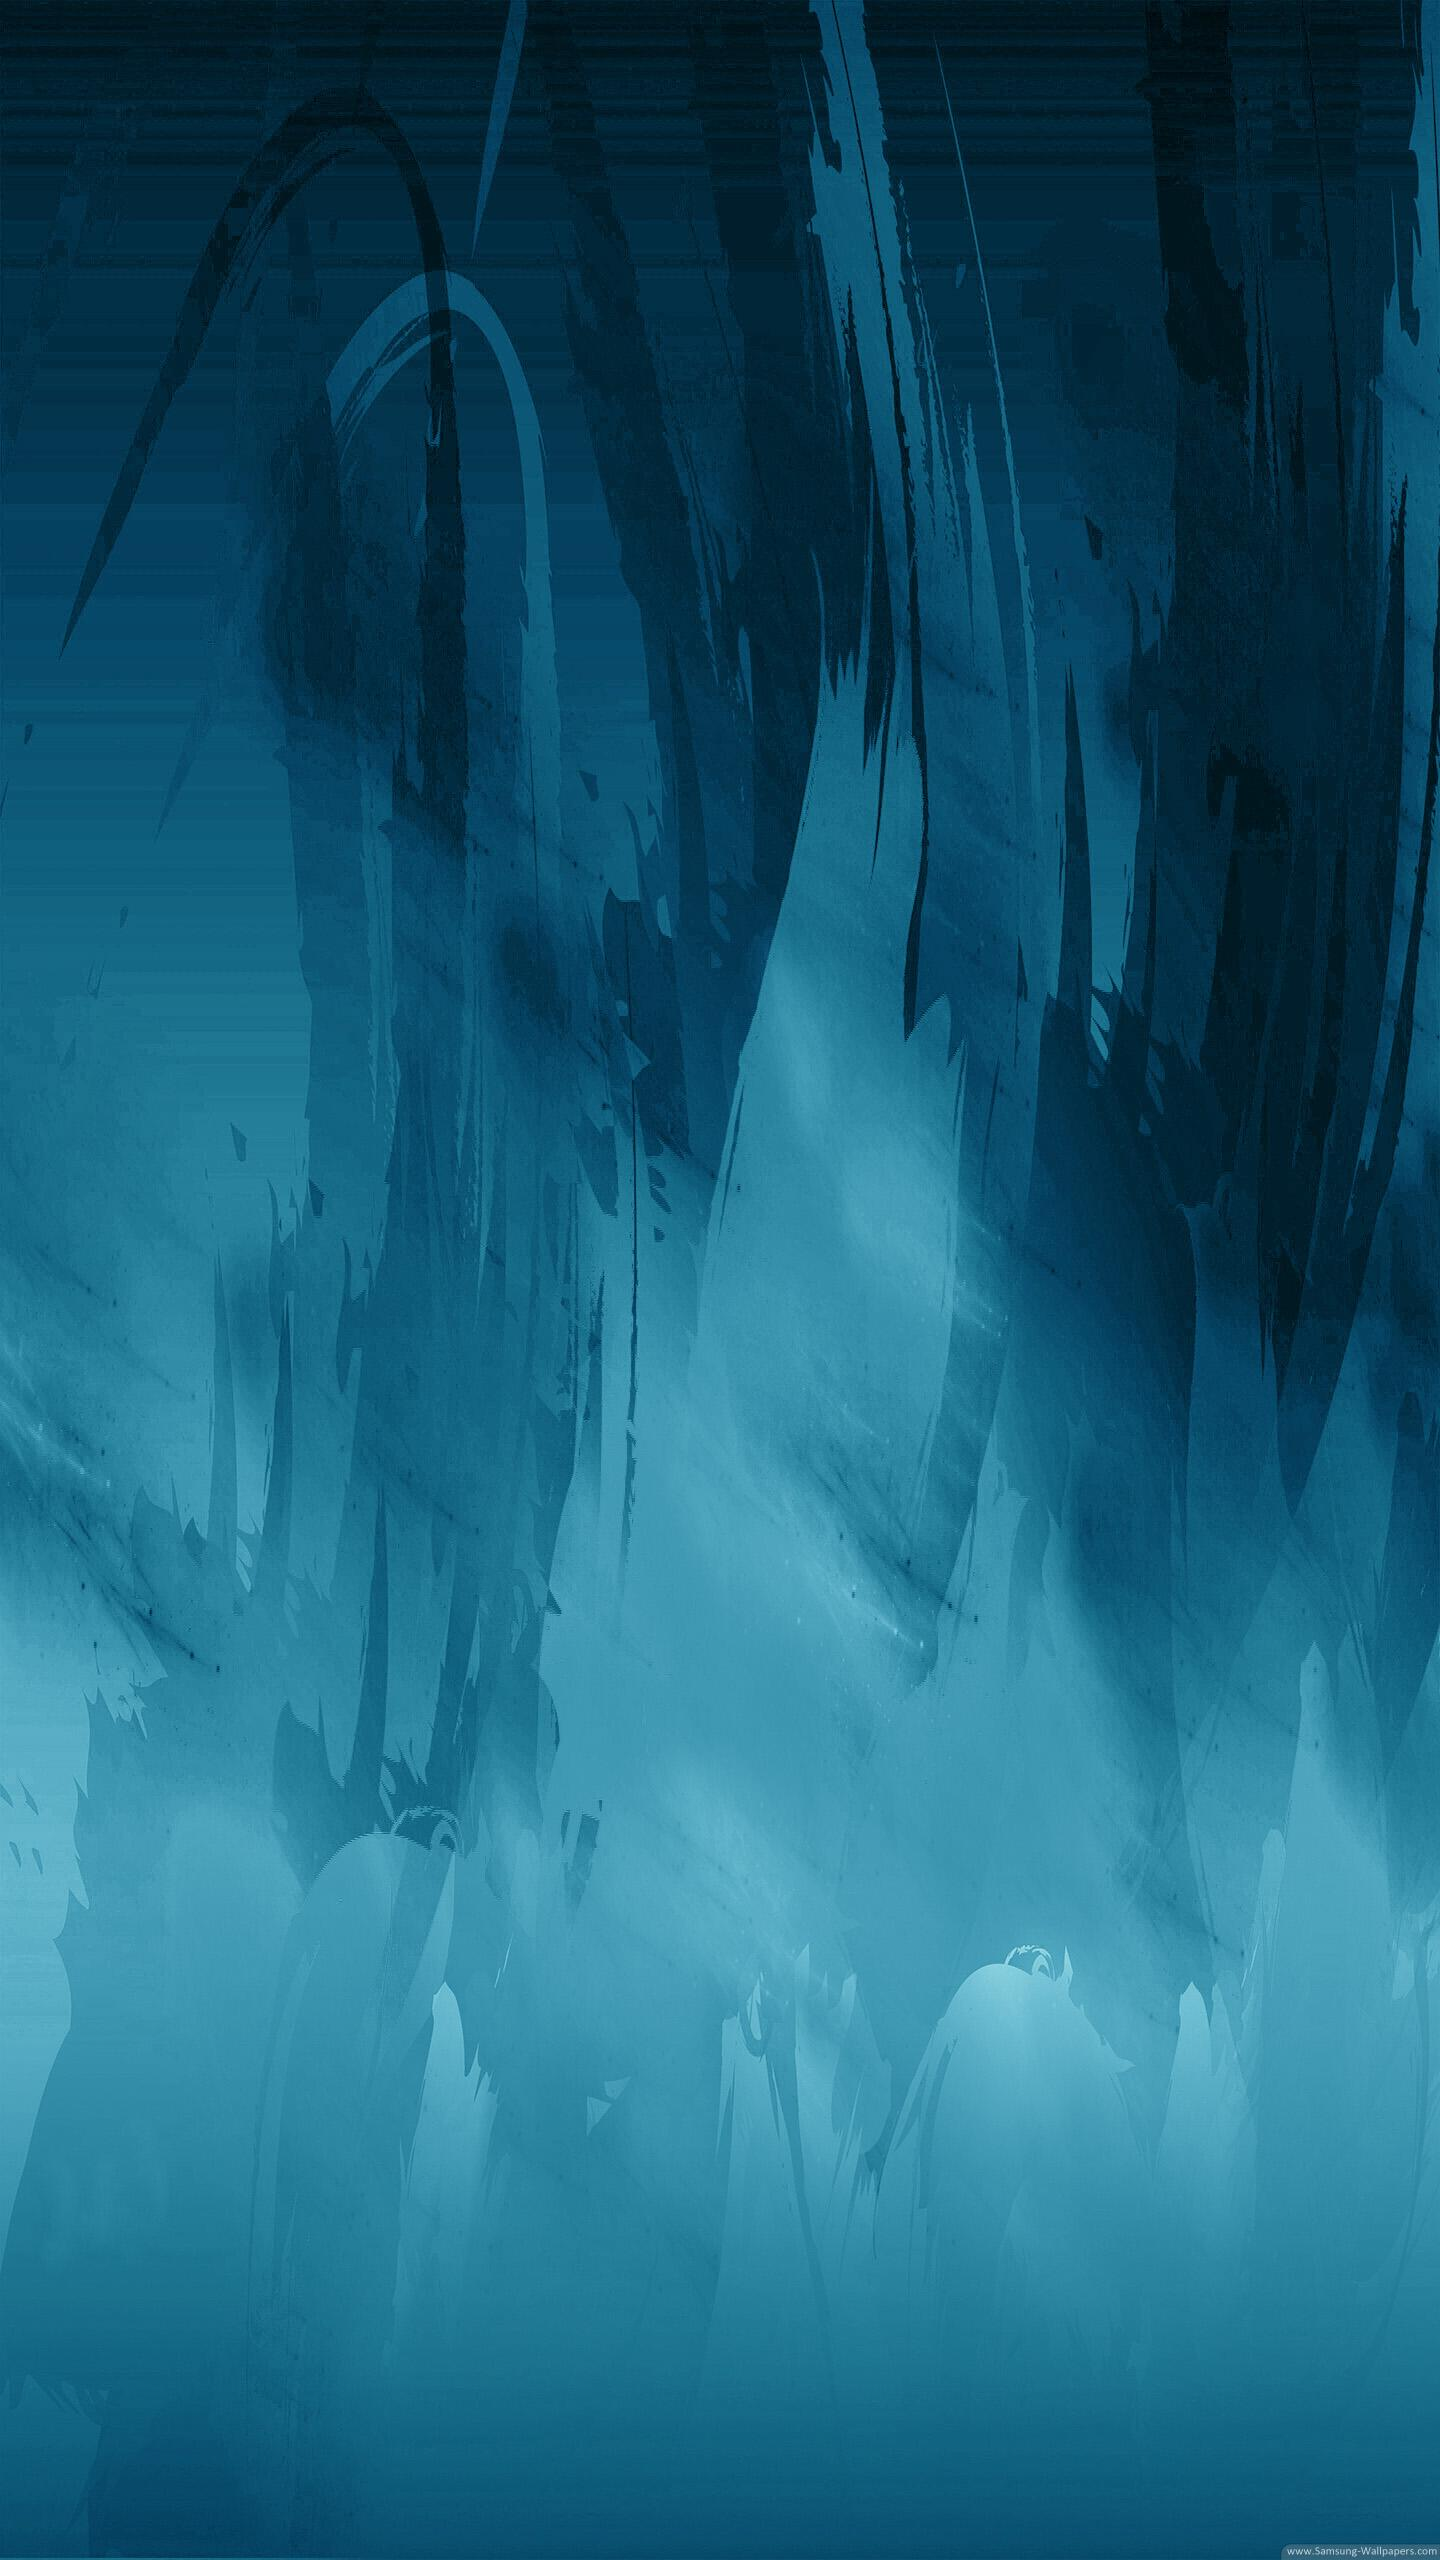
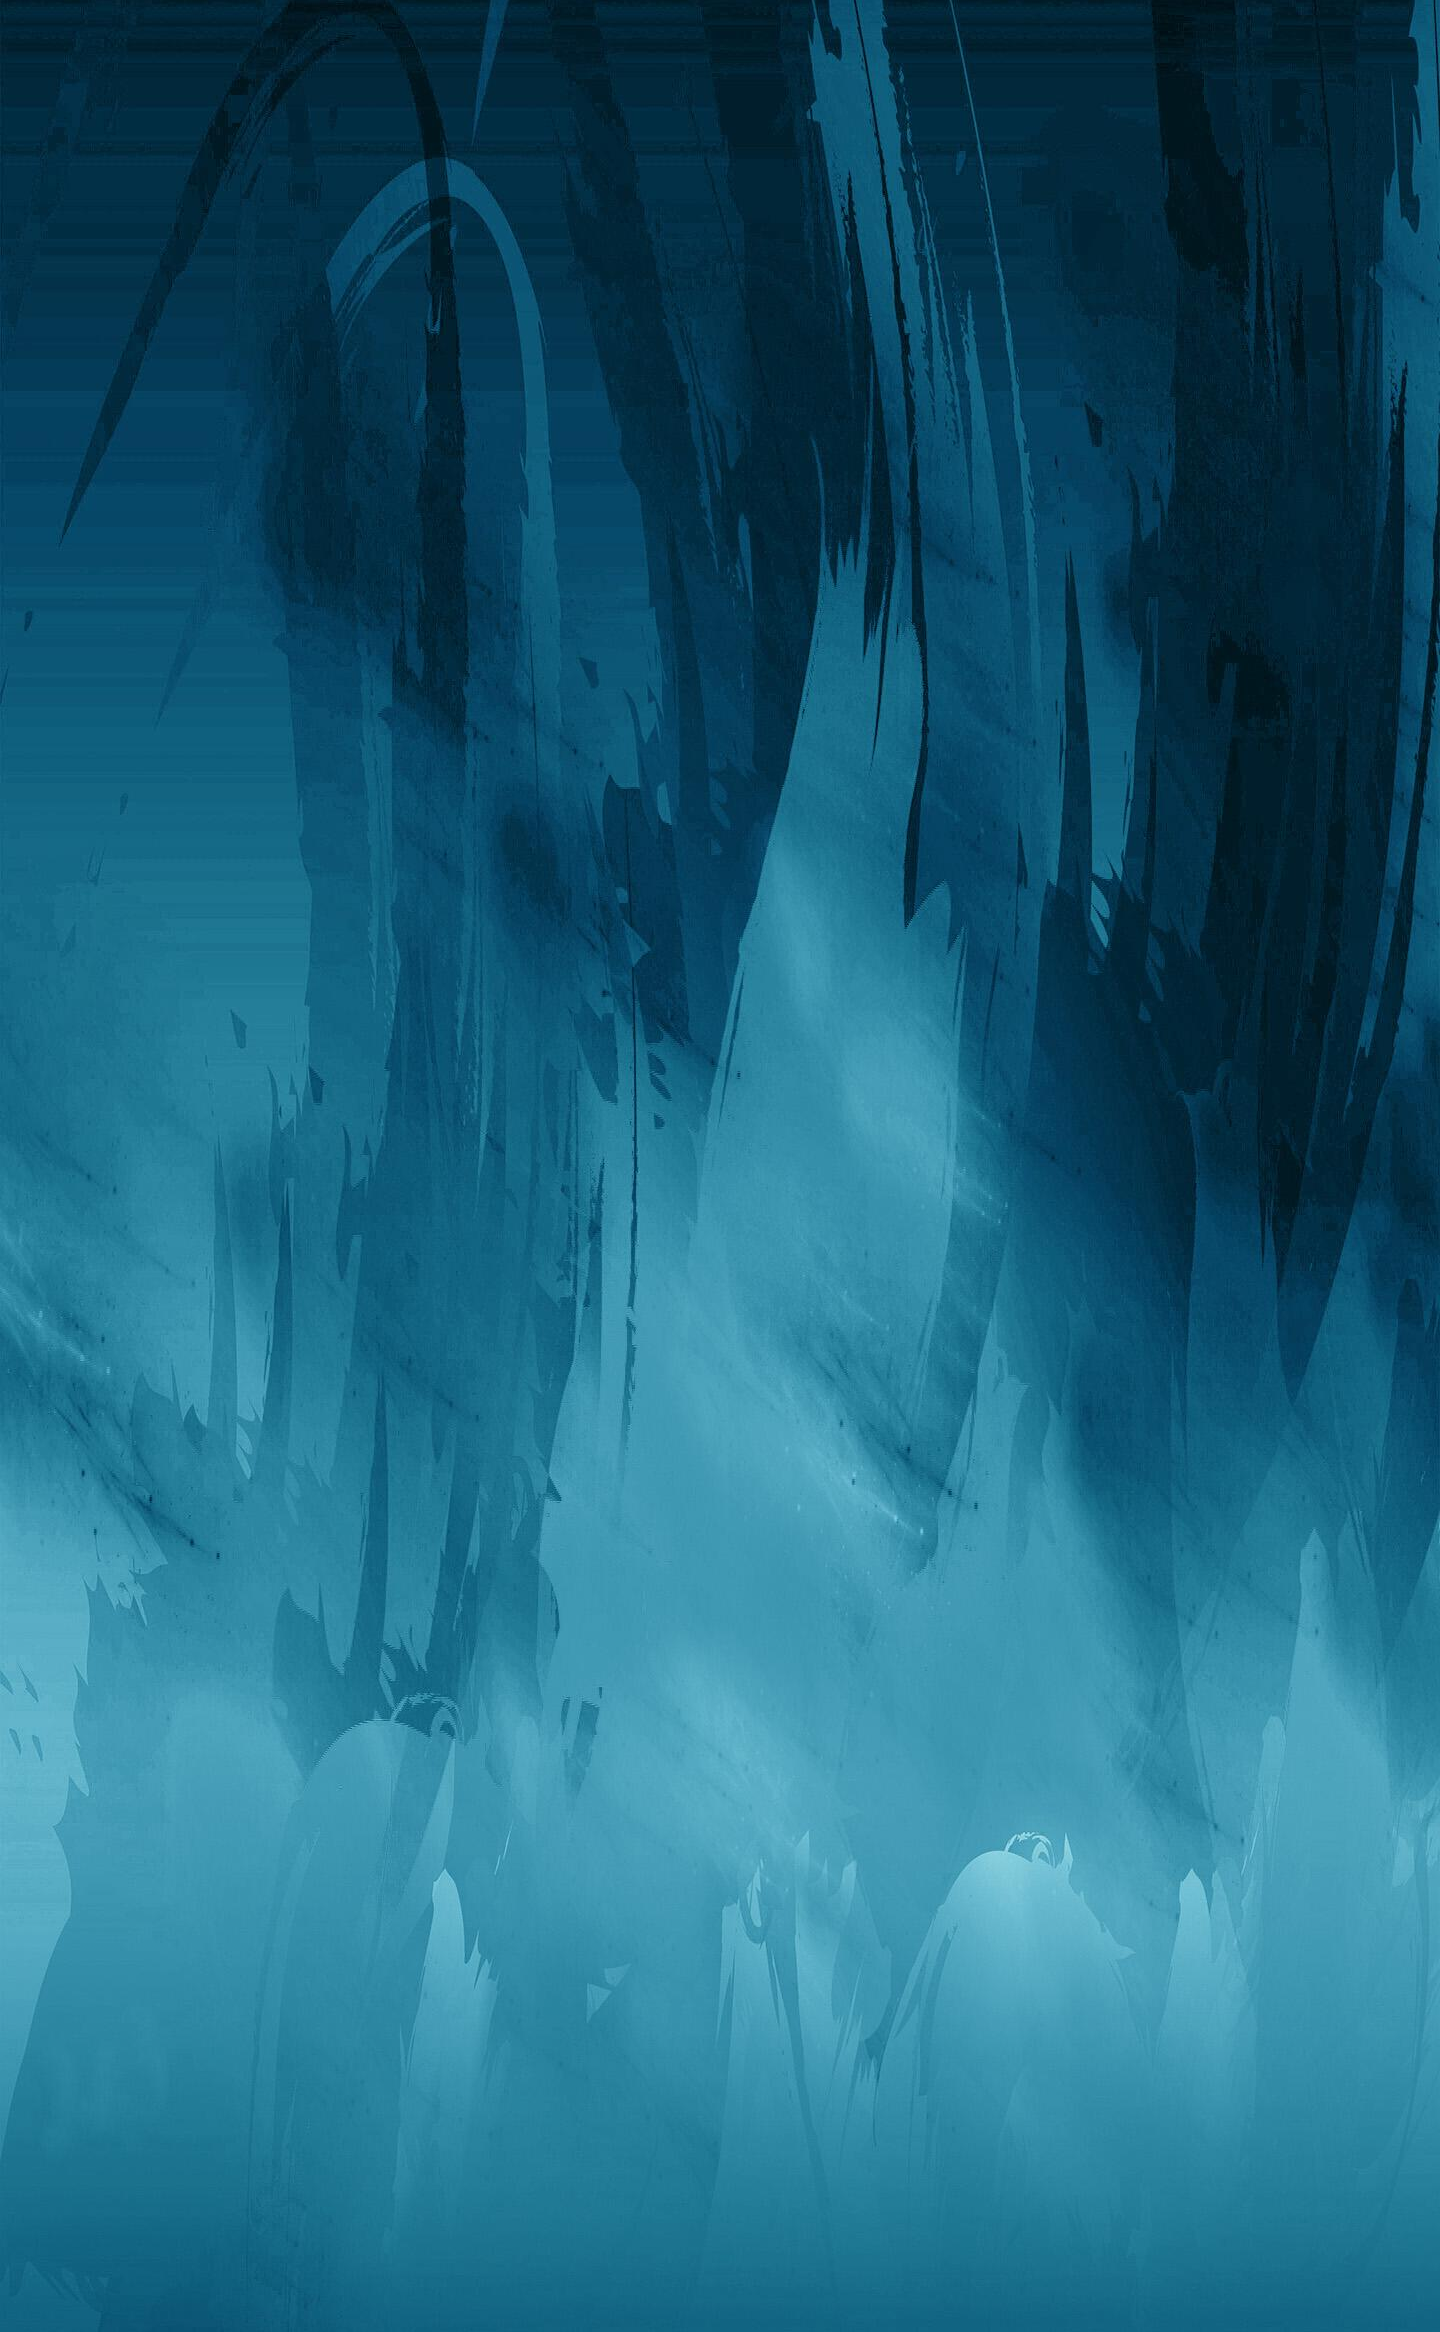
Signed-off-by: ycx <840781240@qq.com>改动第三版

diff --git a/css/scoll.css b/css/scoll.css
@@ -16,5 +16,5 @@
     background-color: #fdfdfd;
     text-align: center;
     background: url("../images/bg1.png");
-    background-size: 100%;
+    background-size: 100% 100%;
 }
